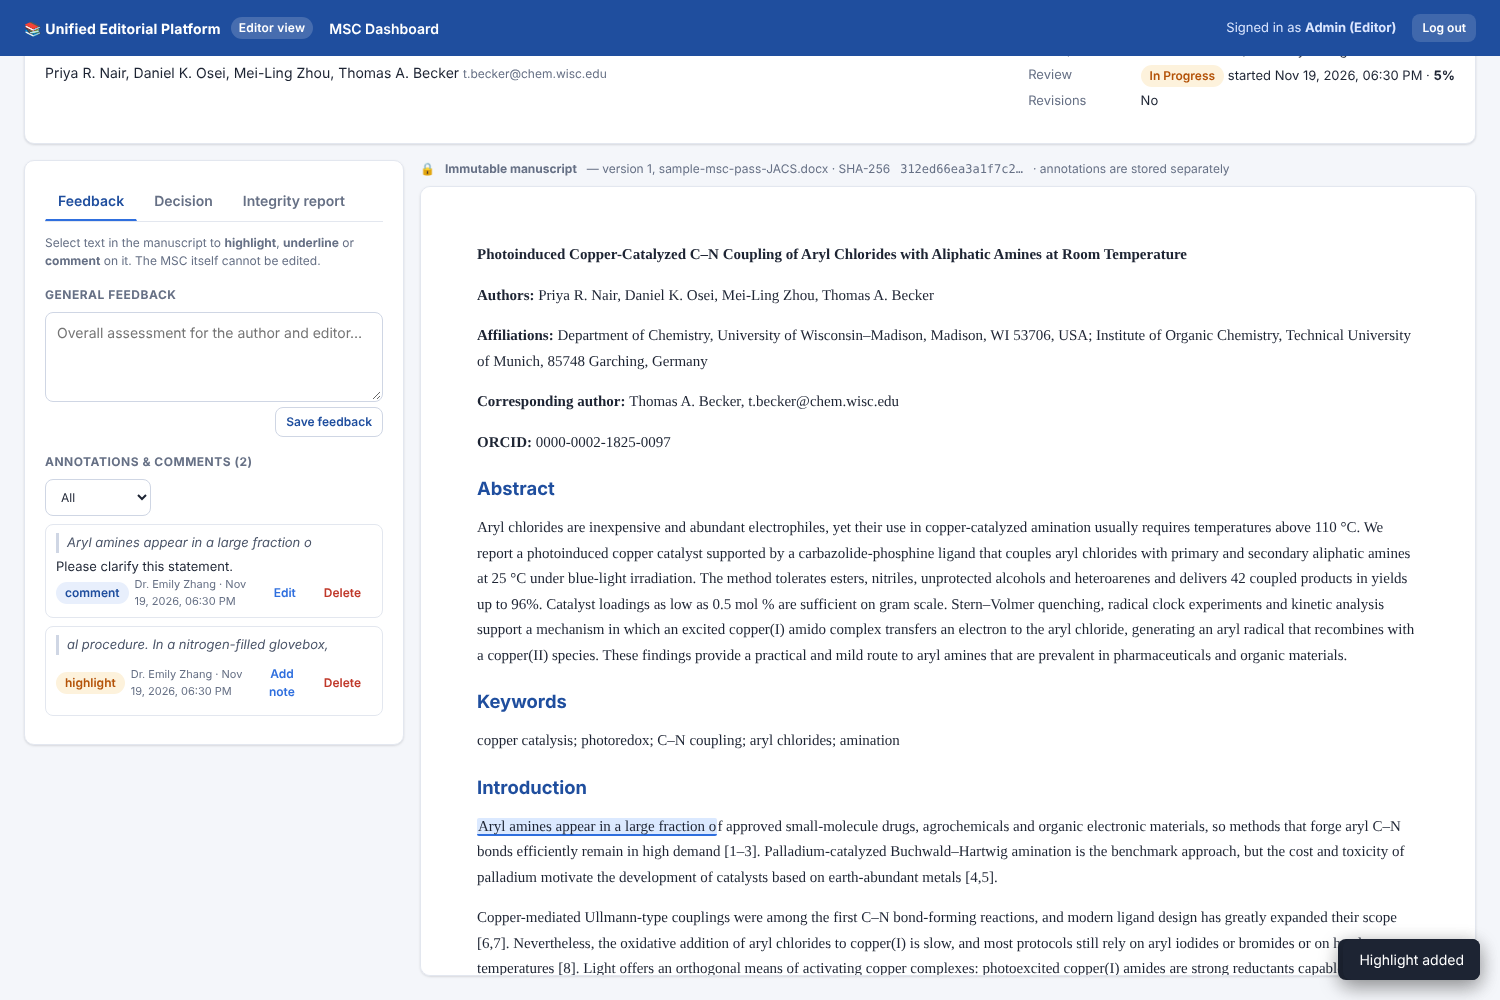
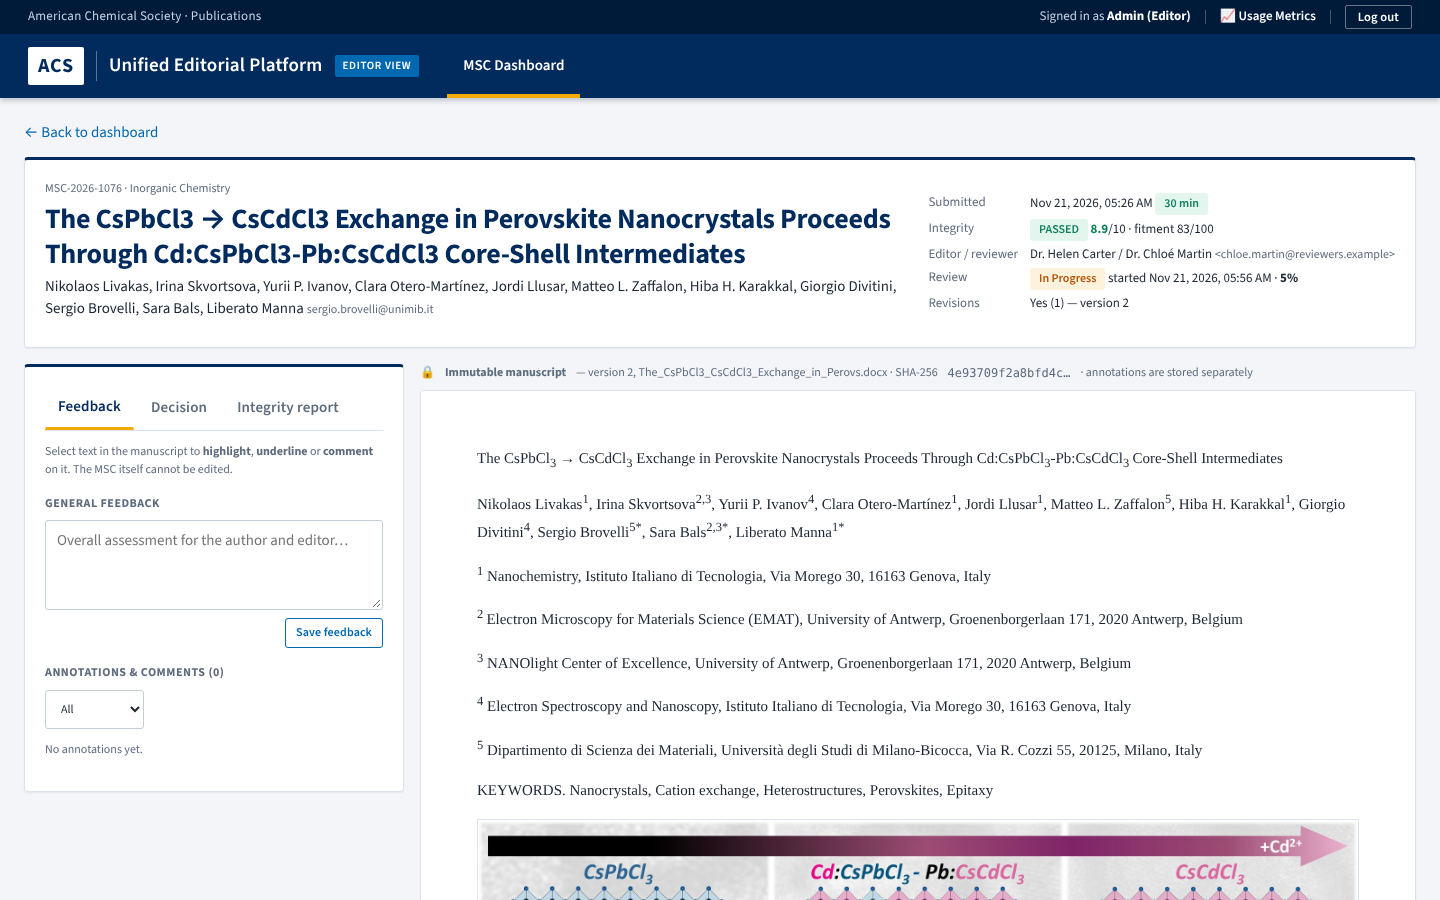
Apply the ACS site theme
Navy masthead with utility bar (Usage Metrics, Log out), ACS blue
actions and links, gold active-tab marker, navy table headers,
square-cornered cards, self-hosted Source Sans 3 typography and a
site footer. Theme lives in public/css/acs-theme.css with colours as
CSS variables; charts use the same palette. Screenshots refreshed.

Claude-Session: https://claude.ai/code/session_013UyawhkpHyUV4Zq6HohUef

Changed region(s): [[0.0, 0.0, 1.0, 0.7778], [0.3125, 0.7778, 1.0, 1.0], [0.0312, 0.8089, 0.0938, 0.84]]

diff --git a/public/css/acs-theme.css b/public/css/acs-theme.css
@@ -1,0 +1,123 @@
+/*
+ * ACS site theme — American Chemical Society look & feel applied on top of
+ * app.css: deep navy masthead with a slim utility bar, ACS blue for actions
+ * and links, Source Sans typography, crisp square-cornered cards.
+ * Colours are set through the variables below, so they are easy to tune to
+ * the official ACS brand guide.
+ */
+@font-face { font-family: "Source Sans 3"; font-weight: 400; font-display: swap; src: url(/vendor/fonts/source-sans-3-latin-400-normal.woff2) format("woff2"); }
+@font-face { font-family: "Source Sans 3"; font-weight: 600; font-display: swap; src: url(/vendor/fonts/source-sans-3-latin-600-normal.woff2) format("woff2"); }
+@font-face { font-family: "Source Sans 3"; font-weight: 700; font-display: swap; src: url(/vendor/fonts/source-sans-3-latin-700-normal.woff2) format("woff2"); }
+
+:root {
+  --acs-navy: #002b5c;        /* masthead */
+  --acs-navy-deep: #001a3a;   /* utility bar, footer */
+  --acs-blue: #0067b1;        /* primary actions, links */
+  --acs-blue-dark: #00508a;   /* hover */
+  --acs-sky: #00a3e0;         /* accent / focus */
+  --acs-gold: #f2a900;        /* active-nav highlight */
+  --acs-tint: #e6f0f8;        /* light blue surfaces */
+
+  --bg: #f3f5f8;
+  --ink: #1b2533;
+  --muted: #5d6b7e;
+  --line: #dde3ea;
+  --brand: var(--acs-navy);
+  --brand-2: var(--acs-blue);
+  --radius: 4px;
+  --shadow: 0 1px 2px rgba(0, 27, 58, .06);
+  --header-h: 98px;
+}
+
+body { font-family: "Source Sans 3", "Source Sans Pro", "Segoe UI", Helvetica, Arial, sans-serif; font-size: 15px; }
+h1, h2, h3 { color: var(--acs-navy); font-weight: 700; letter-spacing: -.01em; }
+h1 { font-size: 1.75rem; }
+a { color: var(--acs-blue); }
+a:hover { color: var(--acs-blue-dark); }
+
+/* ---------- masthead: utility bar + main bar ---------- */
+.topbar { display: block; height: auto; padding: 0; background: var(--acs-navy); box-shadow: 0 2px 6px rgba(0, 20, 50, .25); }
+.topbar .utility { display: flex; align-items: center; gap: 14px; height: 34px; padding: 0 28px; background: var(--acs-navy-deep); font-size: 13px; color: #c7d3e3; }
+.topbar .utility .org { letter-spacing: .02em; }
+.topbar .utility .user { color: #c7d3e3; font-size: 13px; }
+.topbar .utility .user b { color: #fff; }
+.topbar .utility .sep { width: 1px; height: 14px; background: rgba(255,255,255,.25); }
+.topbar .utility .metrics-link { background: none; padding: 0; border-radius: 0; color: #fff; font-weight: 600; }
+.topbar .utility .metrics-link:hover, .topbar .utility .metrics-link.active { background: none; color: var(--acs-gold); text-decoration: none; }
+.topbar .utility button { background: none; border: 1px solid rgba(255,255,255,.4); color: #fff; padding: 2px 12px; font-size: 12.5px; border-radius: 2px; }
+.topbar .utility button:hover { background: #fff; color: var(--acs-navy); }
+.topbar .mainbar { display: flex; align-items: center; gap: 28px; height: 64px; padding: 0 28px; }
+.topbar .logo { gap: 12px; color: #fff; font-weight: 600; font-size: 19px; }
+.topbar .logo .mark { display: inline-grid; place-items: center; height: 38px; padding: 0 10px; background: #fff; color: var(--acs-navy); font-weight: 700; font-size: 20px; letter-spacing: .04em; border-radius: 2px; }
+.topbar .logo .divider { width: 1px; height: 30px; background: rgba(255,255,255,.35); }
+.topbar .logo span.badge { background: var(--acs-blue); color: #fff; border-radius: 2px; text-transform: uppercase; font-size: 11px; letter-spacing: .06em; padding: 3px 8px; }
+.topbar nav { display: flex; align-self: stretch; }
+.topbar nav a { display: flex; align-items: center; margin: 0; padding: 0 16px; color: #dbe5f1; font-weight: 600; font-size: 15px; border-bottom: 4px solid transparent; border-top: 4px solid transparent; }
+.topbar nav a:hover { color: #fff; text-decoration: none; background: rgba(255,255,255,.06); }
+.topbar nav a.active { color: #fff; border-bottom-color: var(--acs-gold); }
+
+.side, .preview-nav { top: calc(var(--header-h) + 16px); }
+.side { max-height: calc(100vh - var(--header-h) - 32px); }
+
+/* ---------- surfaces ---------- */
+.card, .kpi, .chart-card, .table-wrap, .modal, .email-preview, .msc-paper { border-radius: var(--radius); }
+.card { border-top: 3px solid var(--acs-navy); }
+.kpi { border-left: 4px solid var(--acs-blue); }
+.kpi .label { color: var(--muted); letter-spacing: .06em; }
+.kpi .value { color: var(--acs-navy); }
+.chart-card h3 { color: var(--acs-navy); text-transform: uppercase; letter-spacing: .05em; font-size: 11.5px; }
+details.collapsible > summary { color: var(--acs-navy); }
+
+/* ---------- controls ---------- */
+button, .btn { border-radius: 3px; background: var(--acs-blue); font-weight: 600; letter-spacing: .01em; }
+button:hover:not(:disabled), .btn:hover { background: var(--acs-blue-dark); text-decoration: none; }
+button.secondary, .btn.secondary { background: #fff; color: var(--acs-blue); border: 1px solid var(--acs-blue); }
+button.secondary:hover:not(:disabled), .btn.secondary:hover { background: var(--acs-tint); color: var(--acs-blue-dark); }
+button.ghost { background: transparent; color: var(--acs-blue); }
+button.ghost:hover:not(:disabled) { background: var(--acs-tint); }
+input[type=text], input[type=password], input[type=date], input[type=search], select, textarea { border-radius: 3px; border-color: #c4cdd8; }
+input:focus, select:focus, textarea:focus { outline: 2px solid rgba(0, 163, 224, .35); border-color: var(--acs-sky); }
+.tabs button { font-weight: 600; font-size: 15px; }
+.tabs button:hover:not(:disabled) { background: none; color: var(--acs-navy); }
+.tabs button.active { color: var(--acs-navy); border-bottom: 3px solid var(--acs-gold); }
+.seg button.active { background: var(--acs-navy); }
+.pager button.current { background: var(--acs-navy); }
+.pager button:not(.current):not(:disabled) { color: var(--acs-blue); }
+
+/* ---------- tables ---------- */
+table.data th { background: var(--acs-navy); color: #fff; border-bottom: 0; font-weight: 600; }
+table.data th:hover { background: var(--acs-blue-dark); }
+table.data tr:hover td { background: #f2f7fb; }
+table.data tbody tr:nth-child(even) td { background: #fafbfd; }
+table.data tbody tr:nth-child(even):hover td { background: #f2f7fb; }
+
+/* ---------- status colours ---------- */
+.alert, .pill, .reviewer { border-radius: 3px; }
+.alert.info, .pill.blue { background: var(--acs-tint); color: var(--acs-blue-dark); }
+.reviewer.selected { border-color: var(--acs-blue); background: #f0f6fb; }
+.role-toggle input:checked + label { border-color: var(--acs-blue); background: var(--acs-tint); color: var(--acs-navy); box-shadow: 0 0 0 1px var(--acs-blue); }
+.dropzone.drag { border-color: var(--acs-blue); background: var(--acs-tint); }
+.preview-nav a:hover, .preview-nav a.active { background: var(--acs-tint); color: var(--acs-navy); }
+.msc-paper h1, .msc-paper h2 { font-family: "Source Sans 3", "Segoe UI", sans-serif; color: var(--acs-navy); }
+
+/* ---------- login & invitation (no masthead) ---------- */
+.login-wrap { background:
+  radial-gradient(circle at 85% 15%, rgba(0, 163, 224, .25), transparent 40%),
+  linear-gradient(160deg, var(--acs-navy-deep) 0%, var(--acs-navy) 55%, #00427f 100%); }
+.login-card, .invite-card { border-top: 4px solid var(--acs-gold); border-radius: 4px; }
+.login-card h1, .invite-card h1 { color: var(--acs-navy); }
+.brand-lockup { display: flex; align-items: center; gap: 10px; margin-bottom: 14px; }
+.brand-lockup .mark { display: inline-grid; place-items: center; height: 34px; padding: 0 9px; background: var(--acs-navy); color: #fff; font-weight: 700; font-size: 18px; letter-spacing: .04em; border-radius: 2px; }
+.brand-lockup .org { color: var(--muted); font-size: 13px; line-height: 1.2; }
+
+/* ---------- footer ---------- */
+.site-footer { background: var(--acs-navy-deep); color: #9fb1c8; font-size: 12.5px; padding: 18px 28px; margin-top: 32px; display: flex; gap: 18px; flex-wrap: wrap; }
+.site-footer b { color: #fff; font-weight: 600; }
+
+/* keep special-purpose buttons' own hover states */
+button.danger:hover:not(:disabled) { background: #a33024; }
+.sel-toolbar button:hover:not(:disabled) { background: rgba(255,255,255,.15); }
+.seg button:not(.active):hover:not(:disabled) { background: var(--acs-tint); color: var(--acs-navy); }
+.seg button.active:hover:not(:disabled) { background: var(--acs-navy); }
+.pager button:not(.current):not(:disabled):hover { background: var(--acs-tint); }
+.pager button.current:hover:not(:disabled) { background: var(--acs-navy); }

diff --git a/public/js/common.js b/public/js/common.js
@@ -1,4 +1,5 @@
 /* Shared helpers for all pages */
+if (window.Chart) { Chart.defaults.font.family = '"Source Sans 3", "Segoe UI", Helvetica, Arial, sans-serif'; Chart.defaults.color = '#5d6b7e'; }
 const UEP = (() => {
   async function api(url, opts = {}) {
     const o = { credentials: 'same-origin', ...opts };
@@ -52,12 +53,19 @@ const UEP = (() => {
       ? `<a href="/dashboard" class="${active === 'dashboard' ? 'active' : ''}">MSC Dashboard</a>`
       : `<a href="/author" class="${active === 'author' ? 'active' : ''}">MSC Upload</a>`;
     bar.innerHTML = `
-      <div class="logo">📚 Unified Editorial Platform <span class="badge">${esc(me.role)} view</span></div>
-      <nav>${nav}</nav>
-      <div class="spacer"></div>
-      <div class="user">Signed in as <b>${esc(me.displayName)}</b></div>
-      <a href="/metrics" class="metrics-link ${active === 'metrics' ? 'active' : ''}" title="Usage analytics &amp; audit trail">📈 Usage Metrics</a>
-      <button class="small" id="logoutBtn">Log out</button>`;
+      <div class="utility">
+        <span class="org">American Chemical Society · Publications</span>
+        <div class="spacer"></div>
+        <span class="user">Signed in as <b>${esc(me.displayName)}</b></span>
+        <span class="sep"></span>
+        <a href="/metrics" class="metrics-link ${active === 'metrics' ? 'active' : ''}" title="Usage analytics &amp; audit trail">📈 Usage Metrics</a>
+        <span class="sep"></span>
+        <button class="small" id="logoutBtn">Log out</button>
+      </div>
+      <div class="mainbar">
+        <div class="logo"><span class="mark">ACS</span><span class="divider"></span>Unified Editorial Platform <span class="badge">${esc(me.role)} view</span></div>
+        <nav>${nav}</nav>
+      </div>`;
     document.getElementById('logoutBtn').onclick = async () => {
       stopTracking();
       await api('/api/logout', { method: 'POST' });

diff --git a/public/invite.html b/public/invite.html
@@ -5,11 +5,12 @@
   <meta name="viewport" content="width=device-width, initial-scale=1">
   <title>Review invitation · Unified Editorial Platform</title>
   <link rel="stylesheet" href="/css/app.css">
+  <link rel="stylesheet" href="/css/acs-theme.css">
 </head>
 <body>
   <div class="login-wrap">
     <div class="card invite-card" id="card">
-      <h1>📚 Invitation to review</h1>
+      <div class="brand-lockup"><span class="mark">ACS</span><span class="org">American Chemical Society<br>Publications</span></div><h1>Invitation to review</h1>
       <p class="muted">Loading invitation…</p>
     </div>
   </div>
@@ -32,7 +33,7 @@
           ? '<span class="pill amber">Awaiting your response</span>'
           : inv.status === 'Accepted' ? '<span class="pill green">✓ Accepted</span>' : `<span class="pill grey">${esc(inv.status)}</span>`;
         card.innerHTML = `
-          <h1>📚 Invitation to review</h1>
+          <div class="brand-lockup"><span class="mark">ACS</span><span class="org">American Chemical Society<br>Publications</span></div><h1>Invitation to review</h1>
           <p class="muted">${esc(inv.msc.journal)}</p>
           ${note || ''}
           <p>Dear <b>${esc(inv.reviewer ? inv.reviewer.name : 'Reviewer')}</b>${inv.reviewer ? ` <span class="muted small">&lt;${esc(inv.reviewer.email)}&gt;</span>` : ''},<br>you have been invited to review the manuscript below.</p>
@@ -65,7 +66,7 @@
         }
       }
       try { render(await call('GET')); } catch (ex) {
-        card.innerHTML = `<h1>📚 Invitation to review</h1><div class="alert error">${esc(ex.message)}</div>`;
+        card.innerHTML = `<div class="brand-lockup"><span class="mark">ACS</span><span class="org">American Chemical Society<br>Publications</span></div><h1>Invitation to review</h1><div class="alert error">${esc(ex.message)}</div>`;
       }
     })();
   </script>

diff --git a/public/js/metrics.js b/public/js/metrics.js
@@ -2,7 +2,7 @@
   const { api, esc, fmtDate } = UEP;
   await UEP.initTopbar('metrics');
   const $ = id => document.getElementById(id);
-  const PALETTE = ['#2f6fde', '#12805c', '#e19a17', '#6d3fc0', '#c0392b', '#16a085', '#0e6a7d', '#9aa4b8'];
+  const PALETTE = ['#0067b1', '#002b5c', '#00a3e0', '#f2a900', '#12805c', '#6d3fc0', '#c0392b', '#9aa4b8'];
   const charts = {};
   let data = null;
   let tab = 'sessions';
@@ -20,7 +20,7 @@
     if (charts[id]) charts[id].destroy();
     charts[id] = new Chart($(id), {
       type,
-      data: { labels, datasets: [{ data: values, backgroundColor: type === 'doughnut' ? PALETTE : '#2f6fde', borderRadius: type === 'bar' ? 4 : 0 }] },
+      data: { labels, datasets: [{ data: values, backgroundColor: type === 'doughnut' ? PALETTE : '#0067b1', borderRadius: type === 'bar' ? 4 : 0 }] },
       options: Object.assign({
         responsive: true, maintainAspectRatio: false,
         plugins: { legend: { display: type === 'doughnut', position: 'right', labels: { boxWidth: 8, font: { size: 10 }, padding: 6 } } },

diff --git a/public/js/author.js b/public/js/author.js
@@ -155,7 +155,7 @@
     const fitRows = Object.entries(fit.scores).sort((a, b) => b[1] - a[1]).map(([id, v]) => {
       const j = journals.find(x => x.id === id);
       return `<div class="cat"><div>${esc(j ? j.name : id)} ${id === r.journalId ? '<span class="pill blue">selected</span>' : ''} ${id === fit.recommended.journalId ? '<span class="pill green">best fit</span>' : ''}</div>
-        <div class="bar"><span style="width:${v}%;background:${id === r.journalId ? 'var(--brand-2)' : '#9fb3d9'}"></span></div><b>${v}</b></div>`;
+        <div class="bar"><span style="width:${v}%;background:${id === r.journalId ? 'var(--brand-2)' : '#9fbcd6'}"></span></div><b>${v}</b></div>`;
     }).join('');
 
     result.innerHTML = `

diff --git a/public/js/dashboard.js b/public/js/dashboard.js
@@ -2,7 +2,7 @@
   const { api, esc, fmtDate, fmtElapsed, toast } = UEP;
   await UEP.initTopbar('dashboard');
 
-  const COLORS = { green: '#12805c', amber: '#e19a17', red: '#c0392b', blue: '#2f6fde', violet: '#6d3fc0', grey: '#9aa4b8', teal: '#16a085' };
+  const COLORS = { green: '#12805c', amber: '#e19a17', red: '#c0392b', blue: '#0067b1', violet: '#6d3fc0', grey: '#9aa4b8', teal: '#16a085' };
   const DECISION_COLORS = { Accept: COLORS.green, Reject: COLORS.red, Transfer: COLORS.violet, Revise: COLORS.amber, 'Assign to PE': '#0e6a7d', Pending: COLORS.grey };
   let page = 1;
   let tab = 'active'; // 'active' = Open & In Progress, 'complete' = Complete

diff --git a/public/dashboard.html b/public/dashboard.html
@@ -5,6 +5,7 @@
   <meta name="viewport" content="width=device-width, initial-scale=1">
   <title>MSC Dashboard · Unified Editorial Platform</title>
   <link rel="stylesheet" href="/css/app.css">
+  <link rel="stylesheet" href="/css/acs-theme.css">
 </head>
 <body>
   <header class="topbar"></header>
@@ -101,6 +102,7 @@
       <div class="row pager" id="pager"></div>
     </div>
   </main>
+  <footer class="site-footer"><span><b>American Chemical Society</b> · Unified Editorial Platform</span><span>Prototype for internal evaluation</span></footer>
 
   <div class="modal-back hidden" id="modal">
     <div class="modal" role="dialog" aria-modal="true">

diff --git a/public/login.html b/public/login.html
@@ -5,10 +5,12 @@
   <meta name="viewport" content="width=device-width, initial-scale=1">
   <title>Login · Unified Editorial Platform</title>
   <link rel="stylesheet" href="/css/app.css">
+  <link rel="stylesheet" href="/css/acs-theme.css">
 </head>
 <body>
   <div class="login-wrap">
     <form class="card login-card" id="loginForm" autocomplete="off">
+      <div class="brand-lockup"><span class="mark">ACS</span><span class="org">American Chemical Society<br>Publications</span></div>
       <h1>Unified Editorial Platform</h1>
       <p class="muted">Sign in to submit manuscripts or manage reviews.</p>
       <label for="username">Username</label>

diff --git a/public/review.html b/public/review.html
@@ -5,6 +5,7 @@
   <meta name="viewport" content="width=device-width, initial-scale=1">
   <title>MSC Review &amp; Annotation · Unified Editorial Platform</title>
   <link rel="stylesheet" href="/css/app.css">
+  <link rel="stylesheet" href="/css/acs-theme.css">
 </head>
 <body>
   <header class="topbar"></header>
@@ -45,6 +46,7 @@
       </section>
     </div>
   </main>
+  <footer class="site-footer"><span><b>American Chemical Society</b> · Unified Editorial Platform</span><span>Prototype for internal evaluation</span></footer>
 
   <div class="sel-toolbar hidden" id="selToolbar">
     <button data-act="highlight">🖍 Highlight</button>

diff --git a/public/metrics.html b/public/metrics.html
@@ -5,6 +5,7 @@
   <meta name="viewport" content="width=device-width, initial-scale=1">
   <title>Usage Metrics · Unified Editorial Platform</title>
   <link rel="stylesheet" href="/css/app.css">
+  <link rel="stylesheet" href="/css/acs-theme.css">
 </head>
 <body>
   <header class="topbar"></header>
@@ -79,6 +80,7 @@
       </section>
     </div>
   </main>
+  <footer class="site-footer"><span><b>American Chemical Society</b> · Unified Editorial Platform</span><span>Prototype for internal evaluation</span></footer>
 
   <script src="/vendor/chart.js/chart.umd.min.js"></script>
   <script src="/js/common.js"></script>

diff --git a/public/author.html b/public/author.html
@@ -5,6 +5,7 @@
   <meta name="viewport" content="width=device-width, initial-scale=1">
   <title>MSC Upload · Unified Editorial Platform</title>
   <link rel="stylesheet" href="/css/app.css">
+  <link rel="stylesheet" href="/css/acs-theme.css">
 </head>
 <body>
   <header class="topbar"></header>
@@ -90,6 +91,7 @@
       <div id="subs"></div>
     </div>
   </main>
+  <footer class="site-footer"><span><b>American Chemical Society</b> · Unified Editorial Platform</span><span>Prototype for internal evaluation</span></footer>
   <script src="/js/common.js"></script>
   <script src="/js/author.js"></script>
 </body>

diff --git a/server.js b/server.js
@@ -97,6 +97,7 @@ app.get('/metrics', requireRole(), page('metrics'));
 // Reviewer-facing invitation page: reached from the invitation e-mail, no login needed.
 app.get('/invite/:token', page('invite'));
 
+app.use('/vendor/fonts', express.static(path.join(__dirname, 'node_modules', '@fontsource', 'source-sans-3', 'files'), { maxAge: '30d' }));
 app.use('/vendor/chart.js', express.static(path.join(__dirname, 'node_modules', 'chart.js', 'dist')));
 app.use(express.static(path.join(__dirname, 'public'), { index: false }));
 app.use('/samples', requireRole(), express.static(path.join(__dirname, 'samples')));
